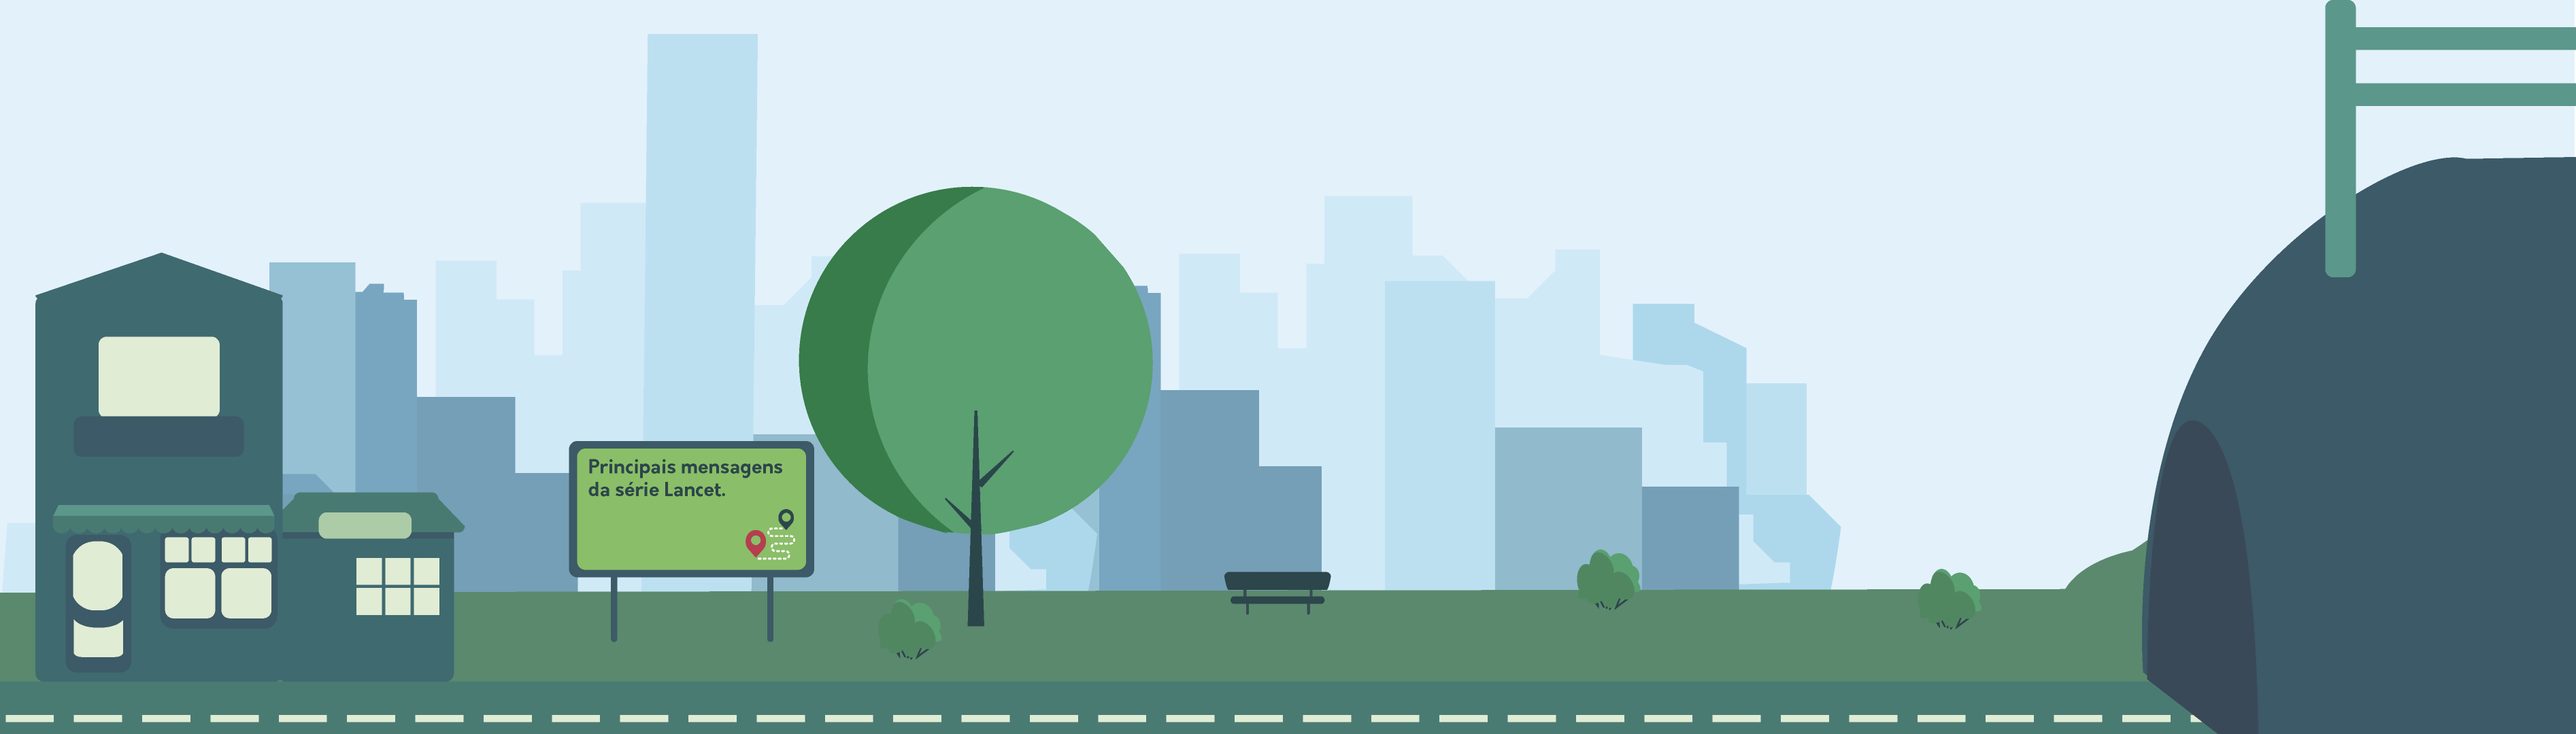
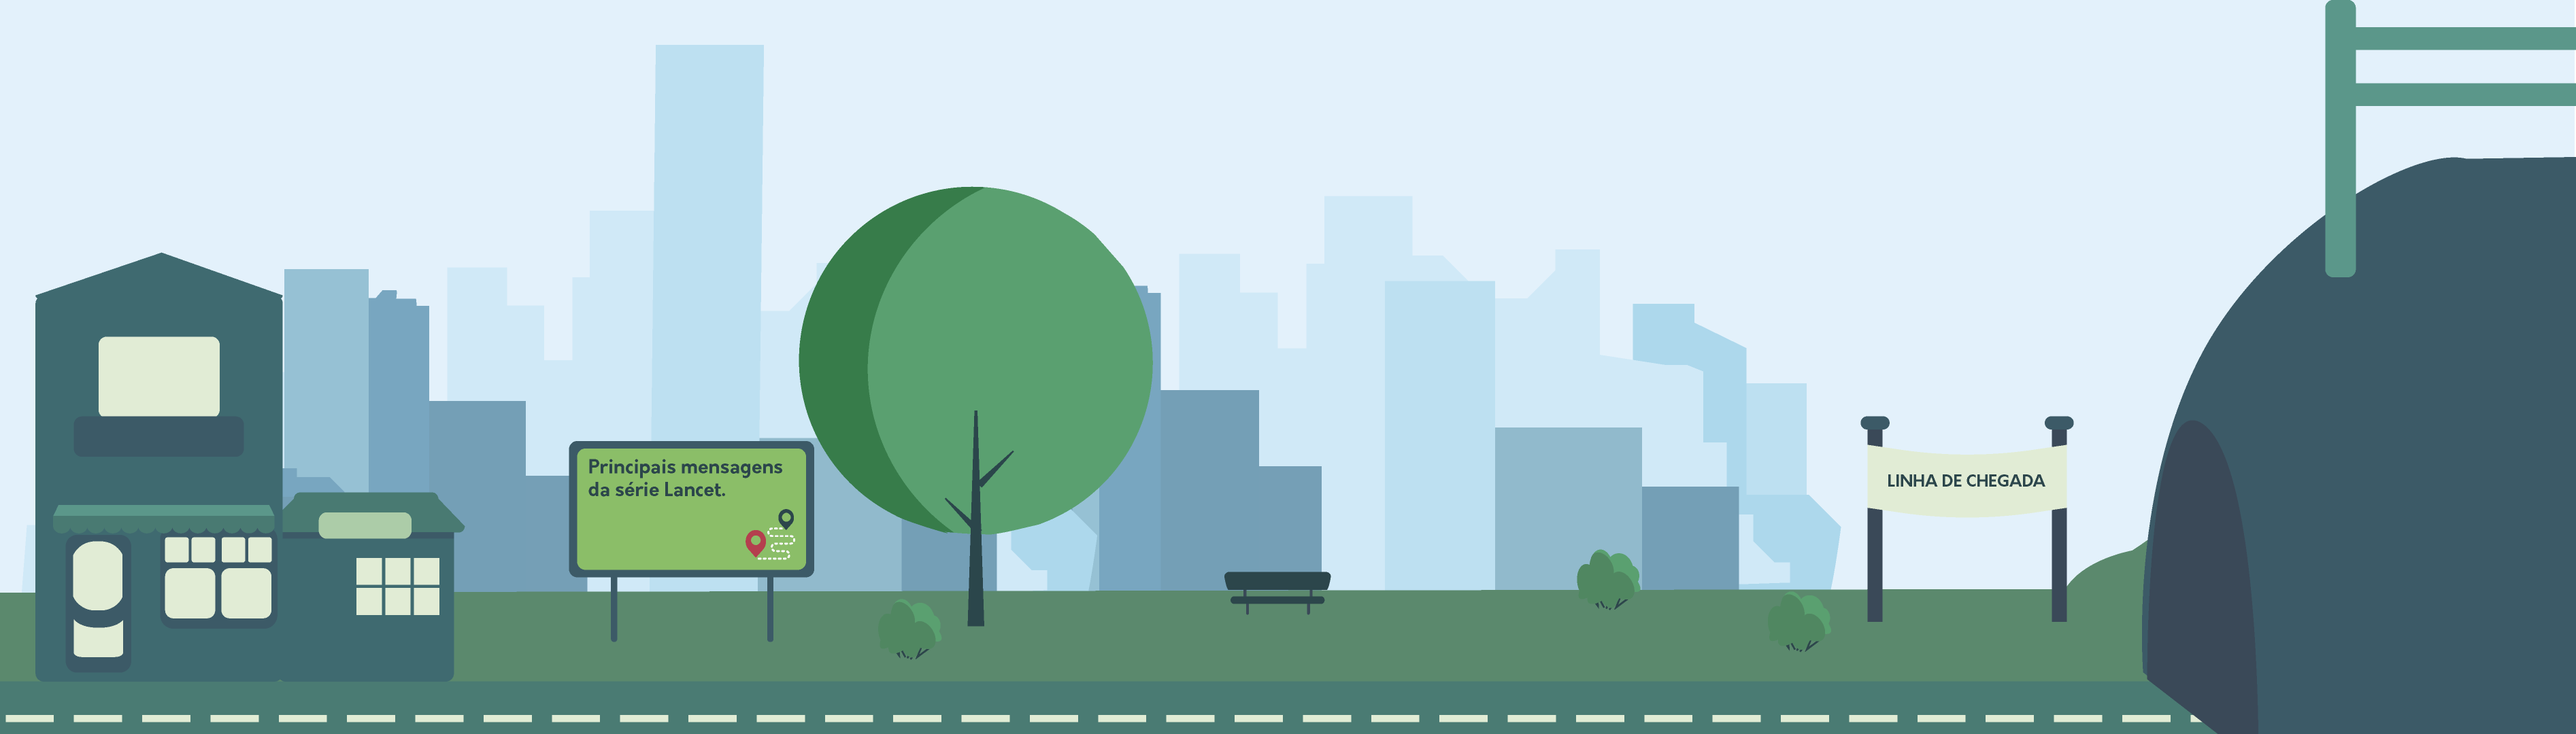
bg e posição dos elementos atualizados

diff --git a/style/style.css b/style/style.css
@@ -132,7 +132,7 @@ body {
 /*BALÕES DE INTERAÇÃO*/
 .balao-luiziane{
     position: absolute;
-    left: 1263px;
+    left: 8197px;
     top: calc(100vh - 217px);
     height: 55px;
     width: 61px;
@@ -143,7 +143,7 @@ body {
 
 .balao-rodiney{
     position: absolute;
-    left: 1745px;
+    left: 8678px;
     top: calc(100vh - 240px);
     height: 55px;
     width: 61px;
@@ -155,7 +155,7 @@ body {
 
 .balao-glaucyanyh{
     position: absolute;
-    left: 2025px;
+    left: 8952px;
     top: calc(100vh - 215px);
     height: 55px;
     width: 61px;
@@ -179,7 +179,7 @@ body {
 
 .balao-manu{
     position: absolute;
-    left: -227px;
+    left: -1616px;
     top: calc(100vh - 281px);
     height: 55px;
     width: 61px;
@@ -191,7 +191,7 @@ body {
 
 .luiziane{
     position: absolute;
-    left: 1305px;
+    left: 8240px;
     top: calc(100vh - 165px);
     height: 104px;
     width: 59px;
@@ -213,7 +213,7 @@ body {
 }
 .rodiney{
     position: absolute;
-    left: 1794px;
+    left: 8733px;
     top: calc(100vh - 183px);
     height: 102px;
     width: 37px;
@@ -224,7 +224,7 @@ body {
 }
 .glaucyanyh{
     position: absolute;
-    left: 2086px;
+    left: 9017px;
     top: calc(100vh - 165px);
     height: 104px;
     width: 40px;
@@ -235,7 +235,7 @@ body {
 }
 .manu{
     position: absolute;
-    left: -168px;
+    left: -1557px;
     top: calc(101vh - 232px);
     width: auto;
     height: 84px;
@@ -252,23 +252,12 @@ body {
     background-repeat: no-repeat;
 
 }
-.plateia{
-    position: absolute;
-    left: 9010px;
-    top: calc(100vh - 160px);
-    height: 73px;
-    width: auto;
-    z-index: 1;
-    background-size: 100% !important;
-    background-repeat: no-repeat;
-
-}
 .menino{
     width: 38px;
     position: absolute;
     height: auto;
     top: calc(100vh - 153px);
-    left: 5765px;
+    left: 4362px;
 
 }
 /*ELEMENTOS DO CENARIO*/
@@ -276,7 +265,7 @@ body {
 .passaro {
     position: absolute;
     height: 67px;
-    left: 1698px;
+    left: 8628px;
     top: calc(100vh - 116px);
     background-size: 100% !important;
     width: 45px;
@@ -287,7 +276,7 @@ body {
 .passarin {
     position: absolute;
     height: 67px;
-    left: 1656px;
+    left: 8584px;
     top: calc(100vh - 116px);
     background-size: 100% !important;
     width: 45px;
@@ -327,7 +316,7 @@ body {
     position: absolute;
     height: auto;
     top: calc(100vh - 256px);
-    left: 2785px;
+    left: 1385px;
 
 }
 .importante2{
@@ -335,7 +324,7 @@ body {
     position: absolute;
     height: auto;
     top: calc(100vh - 294px);
-    left: 5332px;
+    left: 3924px;
 
 }
 
@@ -343,7 +332,7 @@ body {
 /*OUTDOORS1*/
 .outdoor11 {
     position: absolute;
-    left: -3262px;
+    left: -5789px;
     top: calc(100vh - 471px);
     width: auto;
     height: 426px;
@@ -356,7 +345,7 @@ body {
 .texto1{
     position: absolute;
     height: 409px;
-    left: -2379px;
+    left: -4901px;
     top: calc(100vh - 531px);
     width: 390px;
     background-repeat: no-repeat;
@@ -365,7 +354,7 @@ body {
 .texto2 {
     position: absolute;
     height: 413px;
-    left: -1912px;
+    left: -4434px;
     top: calc(100vh - 531px);
     width: 390px;
     background-repeat: no-repeat;
@@ -374,7 +363,7 @@ body {
 .texto3 {
     position: absolute;
     height: 413px;
-    left: -1467px;
+    left: -3991px;
     top: calc(100vh - 531px);
     width: 403px;
     background-repeat: no-repeat;
@@ -383,7 +372,7 @@ body {
 .texto4 {
     position: absolute;
     height: 409px;
-    left: -1038px;
+    left: -3560px;
     top: calc(100vh - 531px);
     width: 403px;
     background-repeat: no-repeat;
@@ -395,7 +384,7 @@ body {
 /*OUTDOORS2*/
 .outdoor21 {
     position: absolute;
-    left: -651px;
+    left: -3177px;
     top: calc(100vh - 471px);
     width: auto;
     height: 426px;
@@ -404,21 +393,21 @@ body {
 /*HOLOGRAMAS*/
 .holograma1 {
     position: absolute;
-    left: -2331px;
+    left: -3344px;
     top: calc(100vh - 545px);
     width: auto;
     height: 417px;
 }
 .holograma2 {
     position: absolute;
-    left: -1561px;
+    left: -2564px;
     top: calc(100vh - 545px);
     width: auto;
     height: 417px;
 }
 .holograma3 {
     position: absolute;
-    left: -1119px;
+    left: -2139px;
     top: calc(100vh - 545px);
     width: auto;
     height: 421px;
@@ -427,7 +416,7 @@ body {
 /*METEORO*/
 .meteoro{
     position: absolute;
-    left: -400px;
+    left: -1729px;
     top: calc(100vh - 491px);
     width: auto;
     height: 452px;
@@ -437,7 +426,7 @@ body {
 /*PALCO*/
 .palco{
     position: absolute;
-    left: -224px;
+    left: -1616px;
     top: calc(100vh - 339px);
     width: auto;
     height: 253px;

diff --git a/js/main-info.js b/js/main-info.js
@@ -117,7 +117,7 @@ function mudaOutdoor2(classe,num1,denominador,num2){
     classe.each(function(){
         var itemLeft = $(this).offset().left;
         console.log(itemLeft);
-          if (scroll-offset > itemLeft && scroll-fim<itemLeft) {
+          if (scroll+offset > itemLeft && scroll-fim<itemLeft) {
             $(this).addClass(animationClass);
             $("#outdoor2").css("display", "none");
         
@@ -148,18 +148,19 @@ function animeHolograma(classe,num1,denominador,num2){
 /*ANIMAÇÃO DOS TEXTOS*/
 
  function animeTexto(classe, num1, denominador,num2){
-   var offset = $(window).width()*num1/denominador,
+  var offset = $(window).width()*num1/denominador,
     fim = $(window).width()*num2/denominador;
     classe.each(function(){
         var itemLeft = $(this).offset().left;
         console.log(itemLeft);
-          if (scroll-offset > itemLeft && scroll-fim<itemLeft) {
-            $(this).addClass(animationClass);
-
+          if (scroll+offset > itemLeft && scroll+fim<itemLeft) {
+             $(this).addClass(animationClass);
+        
           }else{
             $(this).removeClass(animationClass);
           }
      })
+
 }
 
   // FUNÇÕES QUE GERA A ANIMAÇÃO DO METEORO EXPLODINDO E SURGINDO PALCO COM A MANU
@@ -205,17 +206,17 @@ function animeManu(classe, numerador, denominador){
 
  
 
-  mudaOutdoor1(target,3.5,4,1);
-  animeTexto(target2,0.5,4,3);
-  animeTexto(target3,3,4,6)
-  animeTexto(target4,6,4,8);
-  animeTexto(target5,8,4,10.5);
-  mudaOutdoor2(target6, 11.2, 4,14);
-  animeHolograma(target7,9,4,12);
-  animeHolograma(target8, 13, 4,15);
-  animeHolograma(target9, 15.5, 4,18);
-  animeMeteoro(target10,19,4);
-  setTimeout(function(){animePalco(target11,19,4);}, 2600);
-  setTimeout(function(){animeManu(target12,19,4);}, 2600);
+  mudaOutdoor1(target,15,4,12.5);
+  animeTexto(target2,11,4,9);
+  animeTexto(target3,8,4,6)
+  animeTexto(target4,5.5,4,4);
+  animeTexto(target5,3.5,4,1);
+  mudaOutdoor2(target6, 0.6, 4,2.5);
+  animeHolograma(target7,2,4,4.5);
+  animeHolograma(target8, 6, 4,8);
+  animeHolograma(target9, 9, 4,11);
+  animeMeteoro(target10,12,4);
+  setTimeout(function(){animePalco(target11,12,4);}, 2600);
+  setTimeout(function(){animeManu(target12,12,4);}, 2600);
 
 }

diff --git a/page.html b/page.html
@@ -271,7 +271,7 @@
             <div class="texto">
               <h3>Lucas:</h3>
               <p>
-                Sim. O descanso na cama pode atrasar a recuperação da dor nas
+                Sim. O repouso na cama pode atrasar a recuperação da dor nas
                 costas, por isso, é importante se manter ativo.
               </p>
               
@@ -431,9 +431,6 @@
 
         <!-- SESSÃO - Nº 4 -->
         <img src="./imgs/bg/s4.png" class="background" />
-        <!--PLATEIA-->
-        <img class="plateia" src="imgs/personagens/plateia.png">
-        <!--METORO-->
         <section class="anime-meteoro">
 
             <img id="meteoro" class="meteoro" src="imgs/efeitoVisual/meteoro.gif">
